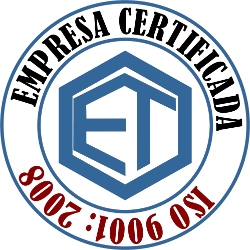
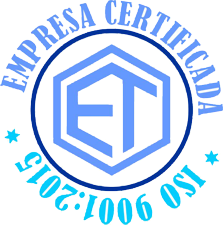
Nova imagem iso9000

diff --git a/app/sobre/page.js b/app/sobre/page.js
@@ -16,8 +16,8 @@ export default function SobrePage() {
           <div>
             <Image
               src="/iso9000.png"
-              width={250}
-              height={250}
+              width={223}
+              height={225}
               alt="Imagem"
             ></Image>
           </div>
